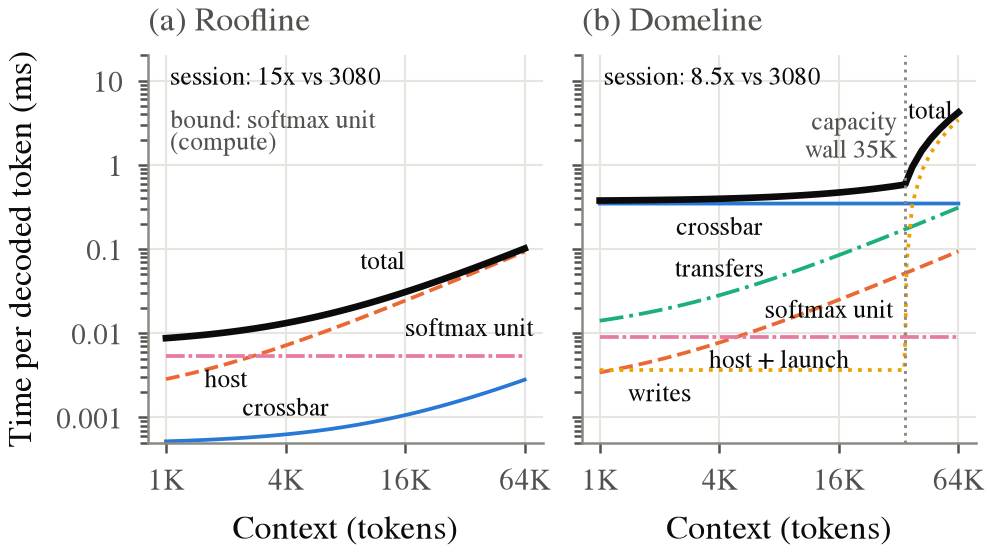
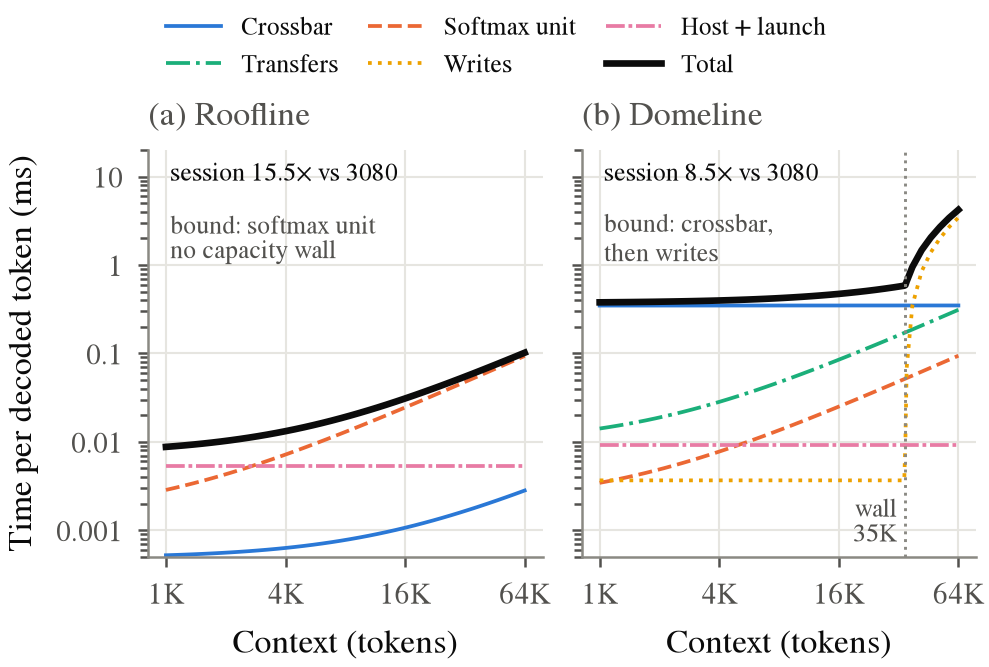
Fig. 1 draft: shared legend, x symbol, bound notes, wall label clear of lines

diff --git a/figs/fig_rvd_teaser.py b/figs/fig_rvd_teaser.py
@@ -107,7 +107,7 @@ def main():
           f"Domeline {D['total'][np.searchsorted(CTX, 16384)]:.3f}")
 
     fs.apply()
-    fig, (a, b) = plt.subplots(1, 2, figsize=(fs.COL_W, 2.05), sharey=True)
+    fig, (a, b) = plt.subplots(1, 2, figsize=(fs.COL_W, 2.35), sharey=True)
     x = CTX / 1024
     for ax, data, keys, title in (
             (a, R, ("xbar", "star", "host"), "(a) Roofline"),
@@ -128,31 +128,23 @@ def main():
     a.yaxis.set_major_formatter(plt.FuncFormatter(lambda v, _: f"{v:g}"))
     a.set_ylabel("Time per decoded token (ms)")
 
-    # Direct labels (ink), placed on each line where it is clear of the others.
-    def at(data, k, xx):
-        return float(np.interp(xx, x, data[k]))
-
-    def lab(ax, xx, yy, text, dy=0, ha="center"):
-        ax.annotate(text, (xx, yy), xytext=(0, dy), textcoords="offset points", ha=ha, va="center",
-                    fontsize=6, color=fs.INK)
-    lab(a, 16, at(R, "total", 16), "total", dy=7, ha="right")
-    lab(a, 16, at(R, "star", 16), "softmax unit", dy=-7, ha="left")
-    lab(a, 2, at(R, "host", 2), "host", dy=-6)
-    lab(a, 4, at(R, "xbar", 4), "crossbar", dy=6)
-    a.annotate("bound: softmax unit\n(compute)", (1.05, 2.5), fontsize=6, color=fs.INK_2, ha="left", va="center",
-               linespacing=1.0)
-    lab(b, 60, D["total"][-1], "total", dy=0, ha="right")
-    lab(b, 4, at(D, "xbar", 4), "crossbar", dy=-6)
-    lab(b, 4, at(D, "transfer", 4), "transfers", dy=6)
-    lab(b, 30, at(D, "star", 30), "softmax unit", dy=-8, ha="right")
-    lab(b, 8, at(D, "host", 8), "host + launch", dy=-6)
-    lab(b, 2, at(D, "write", 2), "writes", dy=-6)
+    # One shared legend (five costs plus the total); a cost keeps its color and dash in both panels.
+    from matplotlib.lines import Line2D
+    handles = [Line2D([], [], color=fs.series(SLOT[k])["color"], ls=fs.series(SLOT[k])["linestyle"], lw=0.9,
+                      label=NAME[k]) for k in ("xbar", "transfer", "star", "write", "host")]
+    handles.append(Line2D([], [], color=fs.INK, lw=1.6, label="Total"))
+    fig.legend(handles=handles, loc="upper center", ncol=3, fontsize=6, frameon=False,
+               bbox_to_anchor=(0.5, 1.0), handlelength=2.2, columnspacing=1.2)
+    a.annotate("bound: softmax unit\nno capacity wall", (1.05, 2.0), fontsize=6, color=fs.INK_2, ha="left",
+               va="center", linespacing=1.1)
     b.axvline(wall / 1024, color=fs.INK_3, lw=0.7, ls=":")
-    b.annotate(f"capacity\nwall {wall / 1024:.0f}K", (wall / 1024, 2.2), xytext=(-2, 0), textcoords="offset points",
+    b.annotate(f"wall\n{wall / 1024:.0f}K", (wall / 1024, 0.0013), xytext=(-2, 0), textcoords="offset points",
                ha="right", va="center", fontsize=6, color=fs.INK_2, linespacing=1.0)
-    a.annotate(f"session: {sn['rf_speedup']:.0f}x vs 3080", (1.05, 9), fontsize=6, color=fs.INK, ha="left")
-    b.annotate(f"session: {sn['dl_speedup']:.1f}x vs 3080", (1.05, 9), fontsize=6, color=fs.INK, ha="left")
-    fig.tight_layout(w_pad=0.6)
+    b.annotate("bound: crossbar,\nthen writes", (1.05, 2.0), fontsize=6, color=fs.INK_2, ha="left",
+               va="center", linespacing=1.1)
+    a.annotate(f"session {sn['rf_speedup']:.1f}× vs 3080", (1.05, 9), fontsize=6, color=fs.INK, ha="left")
+    b.annotate(f"session {sn['dl_speedup']:.1f}× vs 3080", (1.05, 9), fontsize=6, color=fs.INK, ha="left")
+    fig.tight_layout(w_pad=0.6, rect=(0, 0, 1, 0.9))
     print(fs.save(fig, "rvd_teaser"))
 
 
